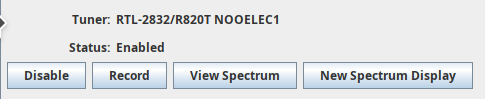
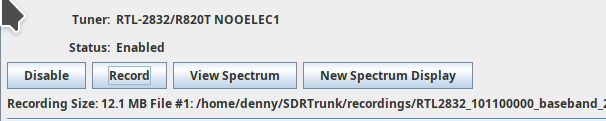
Updates wiki pages with new User Manual and sidebar.

diff --git a/Tuners.md b/Tuners.md
@@ -1,0 +1,216 @@
+# Tuners and Software Defined Radios (SDR)
+<!-- TOC -->
+* [Tuners and Software Defined Radios (SDR)](#tuners-and-software-defined-radios--sdr-)
+  * [Overview](#overview)
+    * [Enable/Disable Tuner Use](#enabledisable-tuner-use)
+    * [USB HotPlug Detection](#usb-hotplug-detection)
+    * [Preferred Tuners](#preferred-tuners)
+  * [SDR Driver Setup](#sdr-driver-setup)
+    * [Install udev Rules](#install-udev-rules)
+  * [General Tuner Use](#general-tuner-use)
+    * [Tuner Table](#tuner-table)
+    * [Recording Tuners](#recording-tuners)
+    * [Tuner Editor](#tuner-editor)
+    * [Frequency Control](#frequency-control)
+    * [PPM Correction](#ppm-correction)
+    * [Enable Auto-Adjust PPM](#enable-auto-adjust-ppm)
+    * [Tuner-Specific Controls](#tuner-specific-controls)
+  * [Calibrating SDR Tuners](#calibrating-sdr-tuners)
+    * [Calibrating Tuner PPM](#calibrating-tuner-ppm)
+    * [Calibrating Tuner Gain](#calibrating-tuner-gain)
+  * [Supported SDRs](#supported-sdrs)
+<!-- TOC -->
+## Overview
+sdrtrunk uses USB SDR dongles as a source of radio signals for decoding.  The application can also use wide bandwidth
+baseband recordings generated from SDR dongles.
+
+### Enable/Disable Tuner Use
+sdrtrunk attempts to claim and use all SDRs that it finds when the application starts up.  You can disable individual
+SDRs so that sdrtrunk doesn't automatically claim them.  Some of the RTL-2832 based SDRs do not provide a consistently
+unique identifier, so if you move the SDR to a different USB port, this can impact the disabled setting for that SDR.
+
+### USB HotPlug Detection
+On Linux and OS-X systems, sdrtrunk can detect when you plugin or remove an SDR dongle.  The application will 
+automatically claim a newly added USB dongle and make it available for application use, unless the dongle was previously
+disabled by the user.  The Windows LibUsb library does not currently support USB Hot Plug detection to notify sdrtrunk 
+when new USB devices are available.  However, you can restart the application after adding a new USB device so that the 
+device can be used.
+
+### Preferred Tuners
+You can edit Channel configurations in the Playlist Editor to select a 'Preferred Tuner' to use with a channel.  When
+sdrtrunk starts the channel for decoding, it will attempt to use the preferred tuner that you selected if that tuner is 
+currently available and can also tune the channel.  When the preferred tuner is not available or can't tune the 
+channel's frequency, sdrtrunk will automatically select the another available tuner.
+
+## SDR Driver Setup
+Install the driver(s) for your USB based SDR dongles.  Like many other SDR applications, sdrtrunk uses
+LibUsb to interface with SDR dongles.  If your dongle is supported by sdrtrunk and it is already configured to work
+correctly with other SDR applications, it should also work with sdrtrunk.
+
+<details><summary>Windows</summary>
+
+Some dongles require the Zadig USB driver software:
+* [Zadig Website](https://zadig.akeo.ie/)
+* [RTL-SDR Zadig Articles](https://www.rtl-sdr.com/tag/zadig/)
+
+</details>
+
+<details><summary>Linux / OS-X</summary>
+
+### Install udev Rules
+Install udev rules file for any tuners you'll be using into the /etc/udev/rules.d/ directory. The following udev files 
+are available here: https://github.com/DSheirer/sdrtrunk/tree/master/src/main/resources
+
+**funcube-dongle.rules**
+**52-airspy.rules**
+**53-hackrf.rules**
+**rtl-sdr.rules**
+
+Ensure that the user account used to start the application also has access to these dongle resources.
+
+</details>
+
+## General Tuner Use
+SDRs are capable of sourcing many radio channels simultaneously, limited only by the bandwidth (ie sample rate) of the
+SDR and the supported frequency range(s).  sdrtrunk manages SDRs as a pooled set of resources.  When the application allocates new radio traffic channels, it
+simply iterates through the set of SDRs until it finds an SDR that is capable of tuning the requested channel frequency.
+
+
+![Image of the tuner's frequency control, PPM control and a checkbox to allow decoders to automatically adjust PPM error](images/tuner_manager.png "Tuner Frequency Control Panel")
+
+### Tuner Table
+The Tuners tab presents a list of tuners that are discovered by the sdrtrunk application. Clicking on a row in the 
+tuner list will **select** that tuner and display a tuner editor in the right-hand panel where you can control the tuner.
+
+The following columns are displayed in the tuner list table:
+* **Status** indicates the status of the tuner.  
+  * **Enabled** indicates that the tuner is being used by the application.
+  * **Disabled** indicates that the user has disabled this tuner and it will not be used by sdrtrunk.
+  * **Error** indicates that there is an error with the tuner that must be resolved before the tuner can be used.
+* **Class** is the general category or class of the tuner
+* **Type** is the specific type or model of the tuner
+* **Frequency** indicates the current center tuned frequency of the tuner
+* **Channels** indicates how many channels are being sourced from the tuner.  A value of **0 (UNLOCKED)** will be 
+displayed when the tuner is not sourcing any channels.  A non-zero value, for example: **1 (LOCKED)**, indicates the
+number of channels being sourced from the tuner.  The **LOCKED** label indicates that the tuner editor's frequency and
+sample rate controls are locked and cannot be changed by the user until all of the decoding channels being sourced by
+the tuner have been stopped.
+
+### Recording Tuners
+You can manually create baseband recordings from each tuner and use these recordings to simulate an actual
+tuner for offline decoding or visualizing the frequency spectrum.  This is useful if you want to capture the entire 
+frequency spectrum of a tuner and later playback that recording to setup new decoder channels or make recordings of 
+individual channels that you extract from the larger tuner baseband recording.
+
+The recording tuner feature only works with baseband recordings generated by sdrtrunk using the WAV file format where 
+the signed 16-bit samples are stored with inphase samples in channel 1 and quadrature samples in channel 2.
+
+The following buttons control use of recording tuners:
+
+* **Add Recording Tuner** - adds a previously generated baseband recording as an available tuner that can be used with
+all of the decoders and application features.  Once added, the recording tuner will continue to be available across 
+application restarts until you remove the recording tuner.  The add recording dialog will automatically infer the 
+center frequency for the recording from the filename, however you may have to manually enter the frequency if this process fails.
+* **Remove Recording Tuner** - removes the currently selected recording tuner.
+
+### Tuner Editor
+Each tuner editor panel provides controls for changing the operating configuration of the tuner and for interacting
+with the spectral display to visualize the frequency spectrum of the tuner.
+
+![Image of the tuner editor's buttons panel containing Enable, Disable, Record, View Spectrum, and New Spectrum Display buttons](images/tuner_editor_buttons.png "Tuner Editor Buttons")
+
+The following buttons are available:
+* **Enable/Disable** - controls sdrtrunk use of the dongle.  Clicking **Disable** removes the tuner from use by the 
+application.  This setting is saved across application restarts and will remain disabled until you click Enable again.
+* **Record** - turns on/off baseband recording for the tuner.  When recording, the label below the button row 
+displays the recording file size, recording number, and recording file path.  The baseband recorder will automatically 
+roll-over to a new file once the maximum recording file size **(4 GB)** is reached.  See the Recording Tuners section above for details on using baseband 
+recordings offline to simulate a tuner or to replay a previous recording and decode channels.
+* **View Spectrum** - shows the current tuner in the primary application spectral display.
+* **New Spectrum Display** - shows the current tuner in a new separate spectral display window.  You can open multiple
+spectral display windows for the same tuner with each display independently zoomable into a specific frequency region. 
+* **Restart** - attempts to restart a tuner that is showing an **Error** status.  This button is only visible when the
+tuner has an **Error** status.  It attempts to restart the error tuner, however it may not clear the error issue.
+
+### Frequency Control
+The tuner editor frequency control allows you to manually change the center tuned frequency for the SDR tuner, when the
+tuner is not supplying decoder channels.
+
+During decoding, sdrtrunk automatically manages the center tuned frequency for each SDR.  When you are not actively 
+decoding channels, the application allows you to manually tune and view the tuner's frequency spectrum.  However, once 
+you activate a channel for decoding, sdrtrunk takes control of the SDR tuning and locks the tuner editor's frequency 
+control so that you can no longer manually tune the SDR.  sdrtrunk will automatically select the optimal center tune 
+frequency for the tuner based on the set of channels that are sourced from the SDR.
+
+![Image of the tuner editor's frequency control, PPM control and a checkbox to allow decoders to automatically adjust PPM error](images/tuner_frequency_control.png "Tuner Frequency Control Panel")
+
+### PPM Correction
+Consumer-grade USB SDR dongles can have significant clock drift causing frequency error. As the dongle heats up and cools
+down, this error can change.  If you don't manually adjust each of your tuners to compensate for this error, it can
+prevent sdrtrunk from correctly tuning channel frequencies and result in poor or no decoding of channel's digital 
+signal.  By default, sdrtrunk sets this PPM offset to 0 and you must calibrate each SDR dongle to remove this 
+frequency error.
+
+### Enable Decoders to Auto-Adjust PPM
+Some of sdrtrunk's digital decoders (APCO 25 & DMR) can provide frequency error reporting to an Automatic PPM correction
+feature that can automatically adjust/correct the tuner's PPM value during the decoding process to maintain calibration 
+of the tuner.  However, this feature only works when the tuner PPM is initially calibrated by the user so that the 
+decoder can see the signal.  As the PPM calibration error changes over time while the application is running, each of 
+the channel decoders will report the frequency error for their channel and the Auto PPM function will average these 
+error reports and adjust the tuner PPM value periodically.
+
+When you are using a decoder that provides frequency error reporting to the Auto-PPM feature, the current average error 
+value as reported by the decoders will be displayed in the tuner editor next to the PPM adjust control.
+
+### Sample Rate
+Most SDR dongles support various sample rates.  The sample rate control allows you to select among the supported 
+sample rate options.  There is a direct correlation between sample rate and the bandwidth or range of frequencies
+that can be tuned by the SDR.  
+
+**Note:** some of the bandwidth provided by SDRs can be unusable due to filter roll-off at the spectral edges and a DC 
+spectral component.  sdrtrunk avoids placing decoding channels into these frequency regions because the signal
+quality can be compromised and negatively impact decoding.
+
+### Tuner-Specific Controls
+Each SDR tuner can provide a number of configuration parameters that you can adjust such as Gain, Bias-T and clock 
+reference signals.  The tuner editor displayed for each tuner contains controls that allow you to adjust these options.
+
+## Calibrating SDR Tuners
+It is critically important that you calibrate each of your SDR tuners before you attempt to decode any signals.
+
+### Calibrating Tuner PPM
+Use the following steps to correct the tuner drift error for each of your SDR tuners:
+1. Select the tuner for display in the primary application window by clicking the **View Spectrum** button.
+1. Allow the tuner to operate for a few minutes to allow the operating temperature to stabilize.
+1. Manually adjust the tuner frequency to bring a known, accurate signal into the spectral view.  This signal should
+   be in the same frequency region that contains the signals that you'll be decoding.  You DO NOT have to tune this known
+   signal to the center of the display as that may hinder your ability to accurately align the signal to the frequency
+   values.  U.S. NOAA weather channels (162.xxx MHz) and APCO25 channels are generally good reference signals.
+1. Zoom (mouse wheel) in the Spectral Display to this signal so that you can clearly see the signal and the frequency values shown
+   immediately below the signal.
+1. Adjust the PPM value (+/-) until you align the signal with the known frequency value for that signal.
+
+Note: you can manually adjust this tuner PPM value when channels are decoding when you see that the signals are not lining
+up with the channel overlay in the spectral display.  You should do this when you're not using decoders that provide
+measurements to the auto-PPM feature.
+
+### Calibrating Tuner Gain
+It is important for you to adjust the gain levels for each SDR tuner that you are using with sdrtrunk.  Setting the 
+gain level too high or too low will critically impact the signal decoding capability.  Follow these
+steps to adjust tuner gain:
+
+1. Turn off all gain controls and set all gain sliders to the minimum value.
+1. Watch the spectral display to see how the frequency spectrum changes as you adjust the gain values.
+1. Incrementally increase the gain level while the individual signals continue to increase in height/amplitude.
+1. Stop increasing the gain level when the noise floor starts to rise along with the signals.
+
+**Noise Floor** - the general level of the frequency spectrum display in the areas where there are no signals.
+
+## Supported SDRs
+sdrtrunk supports the following SDR dongles:
+
+* Airspy (Mini, R1, R2)
+* Funcube Dongle (Pro, Plus)
+* HackRF (HackRF One, Jawbreaker, RAD1O)
+* RTL-2832 (E4000, R820T, R820T2)
+

diff --git a/Getting-Started.md b/Getting-Started.md
@@ -1,0 +1,95 @@
+# Getting Started
+The following instructions detail how to get started with the sdrtrunk application.
+
+sdrtrunk is released as a stand-alone application bundle that does not have to be installed.  Simply download and 
+unzip/untar the application and run the launch script.  sdrtrunk releases include a complete Java Runtime 
+Environment (JRE) so that you do NOT have to install Java.  The bundled OpenJDK JRE is a lightweight version of the 
+full JRE that has been stripped down to include only the minimum components needed to run the sdrtrunk application.
+
+## Download the Application Bundle
+* Click the Download link in the sidebar menu to access the GitHub project Releases page.
+* Select the latest release version
+* Expand the 'Assets' section at the bottom of the Version release page.
+* Download the appropriate application bundle as follows:
+
+<details><summary>Linux ARM 64-bit</summary>
+
+Select the asset that starts with: **sdr-trunk-linux-aarch64**
+
+</details>
+
+<details><summary>Linux x86 64-bit</summary>
+
+Select the asset that starts with: **sdr-trunk-linux-x86_64**
+
+</details>
+
+<details><summary>OS-X M1/M2 (ARM) 64-bit</summary>
+
+Select the asset that starts with: **sdr-trunk-osx-aarch64**
+
+</details>
+
+<details><summary>OS-X x86 64-bit</summary>
+
+Select the asset that starts with: **sdr-trunk-osx-x86_64**
+
+</details>
+
+<details><summary>Windows x86 64-bit</summary>
+
+Select the asset that starts with: **sdr-trunk-windows-x86_64**
+
+</details>
+
+## Unzip or Untar the Application Bundle
+The application bundle is compressed as a ZIP or TAR.GZ archive.  Use any popular zip or tar application to unzip the
+application bundle.
+
+* [7-zip](https://www.7-zip.org/)
+
+## Read the User's Manual
+The user's manual is documented in this wiki.  Use the links in the sidebar to navigate to the various documentation
+sections.  Please read the [Playlist Editor](Playlist-Editor.md) documentation so that you understand how to correctly
+configure sdrtrunk.
+
+## Setup Software Defined Radio (SDR) Dongles
+See the [Tuners](Tuners.md) documentation for Operating System (OS) specific setup instructions for each supported SDR
+dongle/tuner type. Carefully read the section on **Calibrating SDR Tuners** in the [Tuners](Tuners.md) section of the
+user manual **BEFORE** you try to decode any signals.
+
+## Launch the Application
+<details><summary>Linux/OS-X</summary>
+
+Open a terminal and navigate to where you unzipped the application bundle and run the following shell script:
+
+```
+(untarred application bundle file location)/bin/sdrtrunk.sh
+```
+Note: you can also use File Explorer and double-click on this batch file to start the application.  However, if there
+are any errors in starting the application, the command prompt window will quickly disappear and the application may not
+start.
+</details>
+
+<details><summary>Windows</summary>
+
+Open a command prompt and navigate to where you unzipped the application bundle and run the following batch file:
+
+```
+(unzipped application bundle file location)/bin/sdrtrunk.bat
+```
+Note: you can also use File Explorer and double-click on this batch file to start the application.  However, if there 
+are any errors in starting the application, the command prompt window will quickly disappear and the application may not
+start.
+</details>
+
+## Configure Audio Playback
+sdrtrunk attempts to select the correct (ie default) audio playback device from your computer and you may not have to 
+do anything to setup your computer's audio system.  However, some computers are configured in a not-so-standard fashion 
+and sdrtrunk may need your help in selecting the correct audio playback devices.
+
+The [User Preferences Dialog](User-Preferences.md) documentation describes how to select alternate audio playback devices.
+
+## Create Channels and Aliases To Start Decoding
+The [Playlist Editor](Playlist-Editor.md) section describes how to configure channels and aliases for decoding and
+also details how to setup audio monitoring, recording and streaming.

diff --git a/Support.md b/Support.md
@@ -1,0 +1,30 @@
+# Support
+
+## User Help & Questions
+There are a number of sdrtrunk users that provide online help and support to our user community.
+
+### [Discord](https://discord.gg/rYdw9pnA)
+An online chat server with several support channels (#general, #support, #devel)
+
+### [Google Groups](https://groups.google.com/forum/#!forum/sdrtrunk)
+This is an email support group
+
+### [Facebook](https://www.facebook.com/groups/349869155471147/)
+A Facebook user group.
+
+## Reporting Bugs/Errors and Feature Requests
+
+### [GitHub Issues](https://github.com/DSheirer/sdrtrunk/issues)
+The Github Issues feature allows users to report bugs and request features to add to the software.  This is not a user
+support forum, so **please DO NOT open new issues to post user questions.**  This wastes developer time by 
+creating a mess that the developer has to clean up.
+
+### Tips for Reporting Bugs & Errors
+1. Search the list of GitHub issues and support forums to see if someone had already reported the error.
+2. Post a message on one of the support forums to see if someone else is having the same issue.  The developer will
+normally create a new GitHub issue to track the error through to resolution.
+3. If you don't get a response, go ahead and create a new issue.  Please provide as many details as possible:
+* Version of sdrtrunk
+* Operating System & Machine Specs (CPU & Memory)
+* sdrtrunk Application Log or relevant error printout from the log
+* What were you doing or how were you using the application when the error occurred?

diff --git a/_Sidebar.md b/_Sidebar.md
@@ -1,3 +1,17 @@
-# Contents
-* Content 1
-* Content 2
+# Getting Started
+* [README](README.md)
+* [Getting Started](Getting-Started.md)
+* [Download Application Bundle](https://github.com/DSheirer/sdrtrunk/releases)
+* [Help / Support](Support.md)
+* Change Log
+* Frequently Asked Questions (FAQ)
+
+# User Manual
+* [Overview](Home.md)
+* [Getting Started](Getting-Started.md)
+* [SDR Tuners & Dongles](Tuners.md)
+* [Playlist Editor](Playlist-Editor.md)
+* User Preferences Editor
+
+# Contributing
+* Developers
